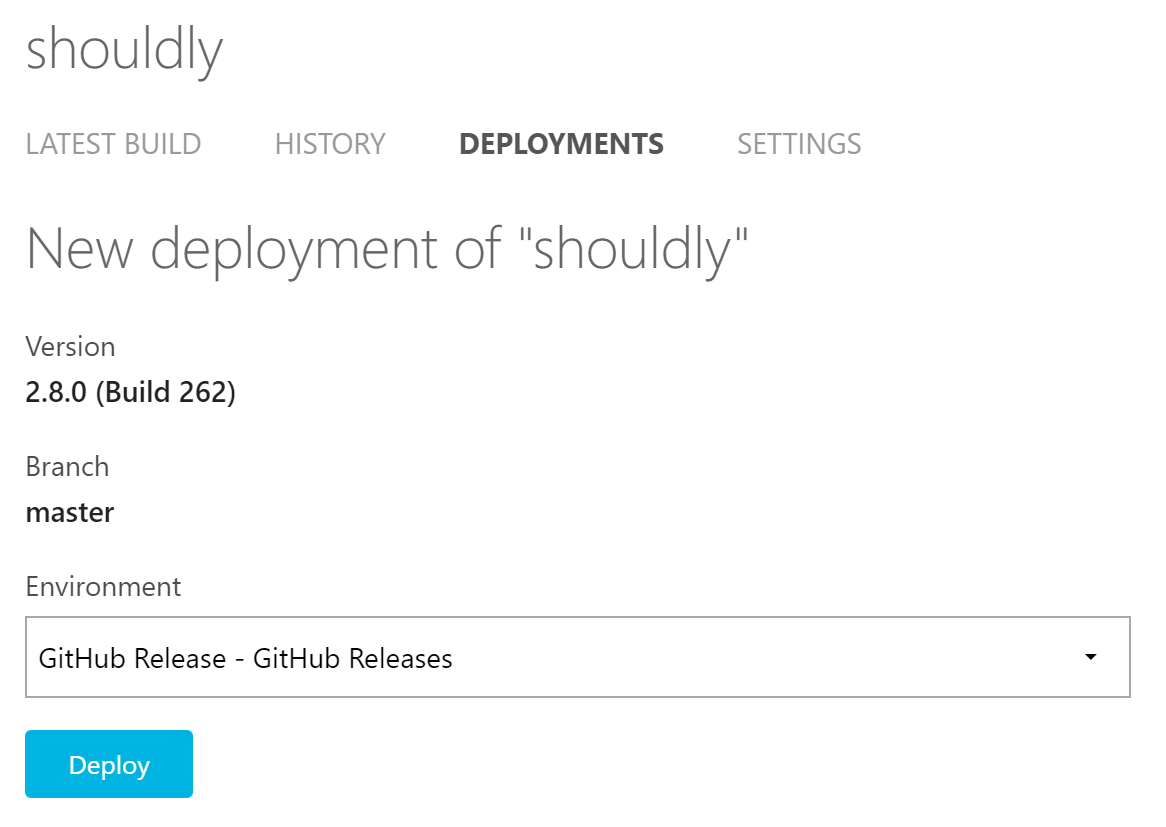
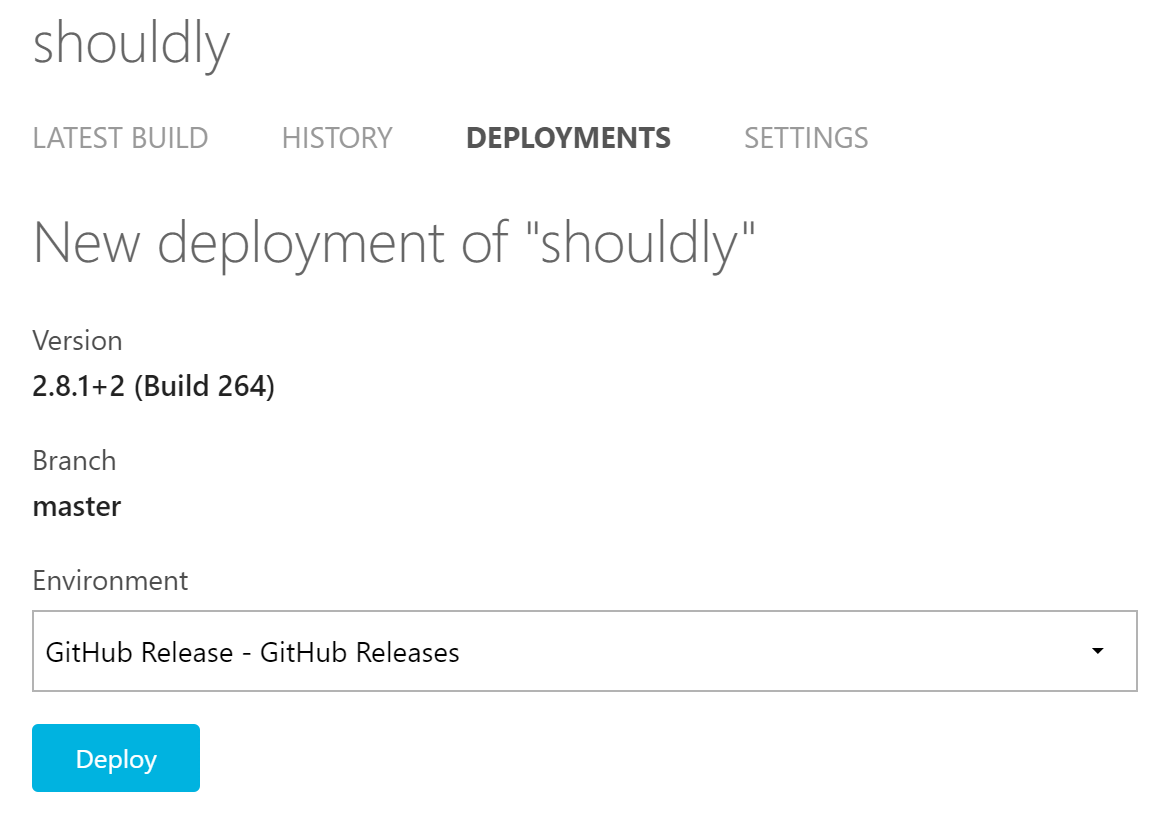
Updated deployment readme

diff --git a/ReleaseProcessReadme.md b/ReleaseProcessReadme.md
@@ -3,9 +3,31 @@ The Shouldly release process is pretty easy now, there are two small manual step
 
 Deployments are initiated through AppVeyor, navigate to the build you want to deploy at [https://ci.appveyor.com/project/shouldly/shouldly](https://ci.appveyor.com/project/shouldly/shouldly), then press the `Deploy` button.
 
-![Deploy Button](https://raw.githubusercontent.com/shouldly/shouldly/master/docs/readme/ReleaseProcess_1.md)
+![Deploy Button](https://raw.githubusercontent.com/shouldly/shouldly/master/docs/readme/ReleaseProcess_1.png)
 
 Choose the GitHub Release environment
 
-![GitHub Release](https://raw.githubusercontent.com/shouldly/shouldly/master/docs/readme/ReleaseProcess_2.md)
+![Deploy GitHub Release](https://raw.githubusercontent.com/shouldly/shouldly/master/docs/readme/ReleaseProcess_2.png)
 
+And deploy
+
+![Deployment](https://raw.githubusercontent.com/shouldly/shouldly/master/docs/readme/ReleaseProcess_3.png)
+
+Once the release completes, head to the releases section on GitHub
+
+![GitHub Release](https://raw.githubusercontent.com/shouldly/shouldly/master/docs/readme/ReleaseProcess_4.png)
+
+And download the release notes, then edit the draft release
+
+![GitHub Release](https://raw.githubusercontent.com/shouldly/shouldly/master/docs/readme/ReleaseProcess_5.png)
+
+Remove the build meta data from the tag and release title
+
+![GitHub Release](https://raw.githubusercontent.com/shouldly/shouldly/master/docs/readme/ReleaseProcess_6.png)
+
+Copy the contents of the release notes file into the release description field and make any manual cleanups you need to. Then Publish the release
+
+![GitHub Release](https://raw.githubusercontent.com/shouldly/shouldly/master/docs/readme/ReleaseProcess_7.png)
+
+
+Make sure deployment from [Shouldly-deploy](https://ci.appveyor.com/project/shouldly/shouldly-lk0o2) build succeeds